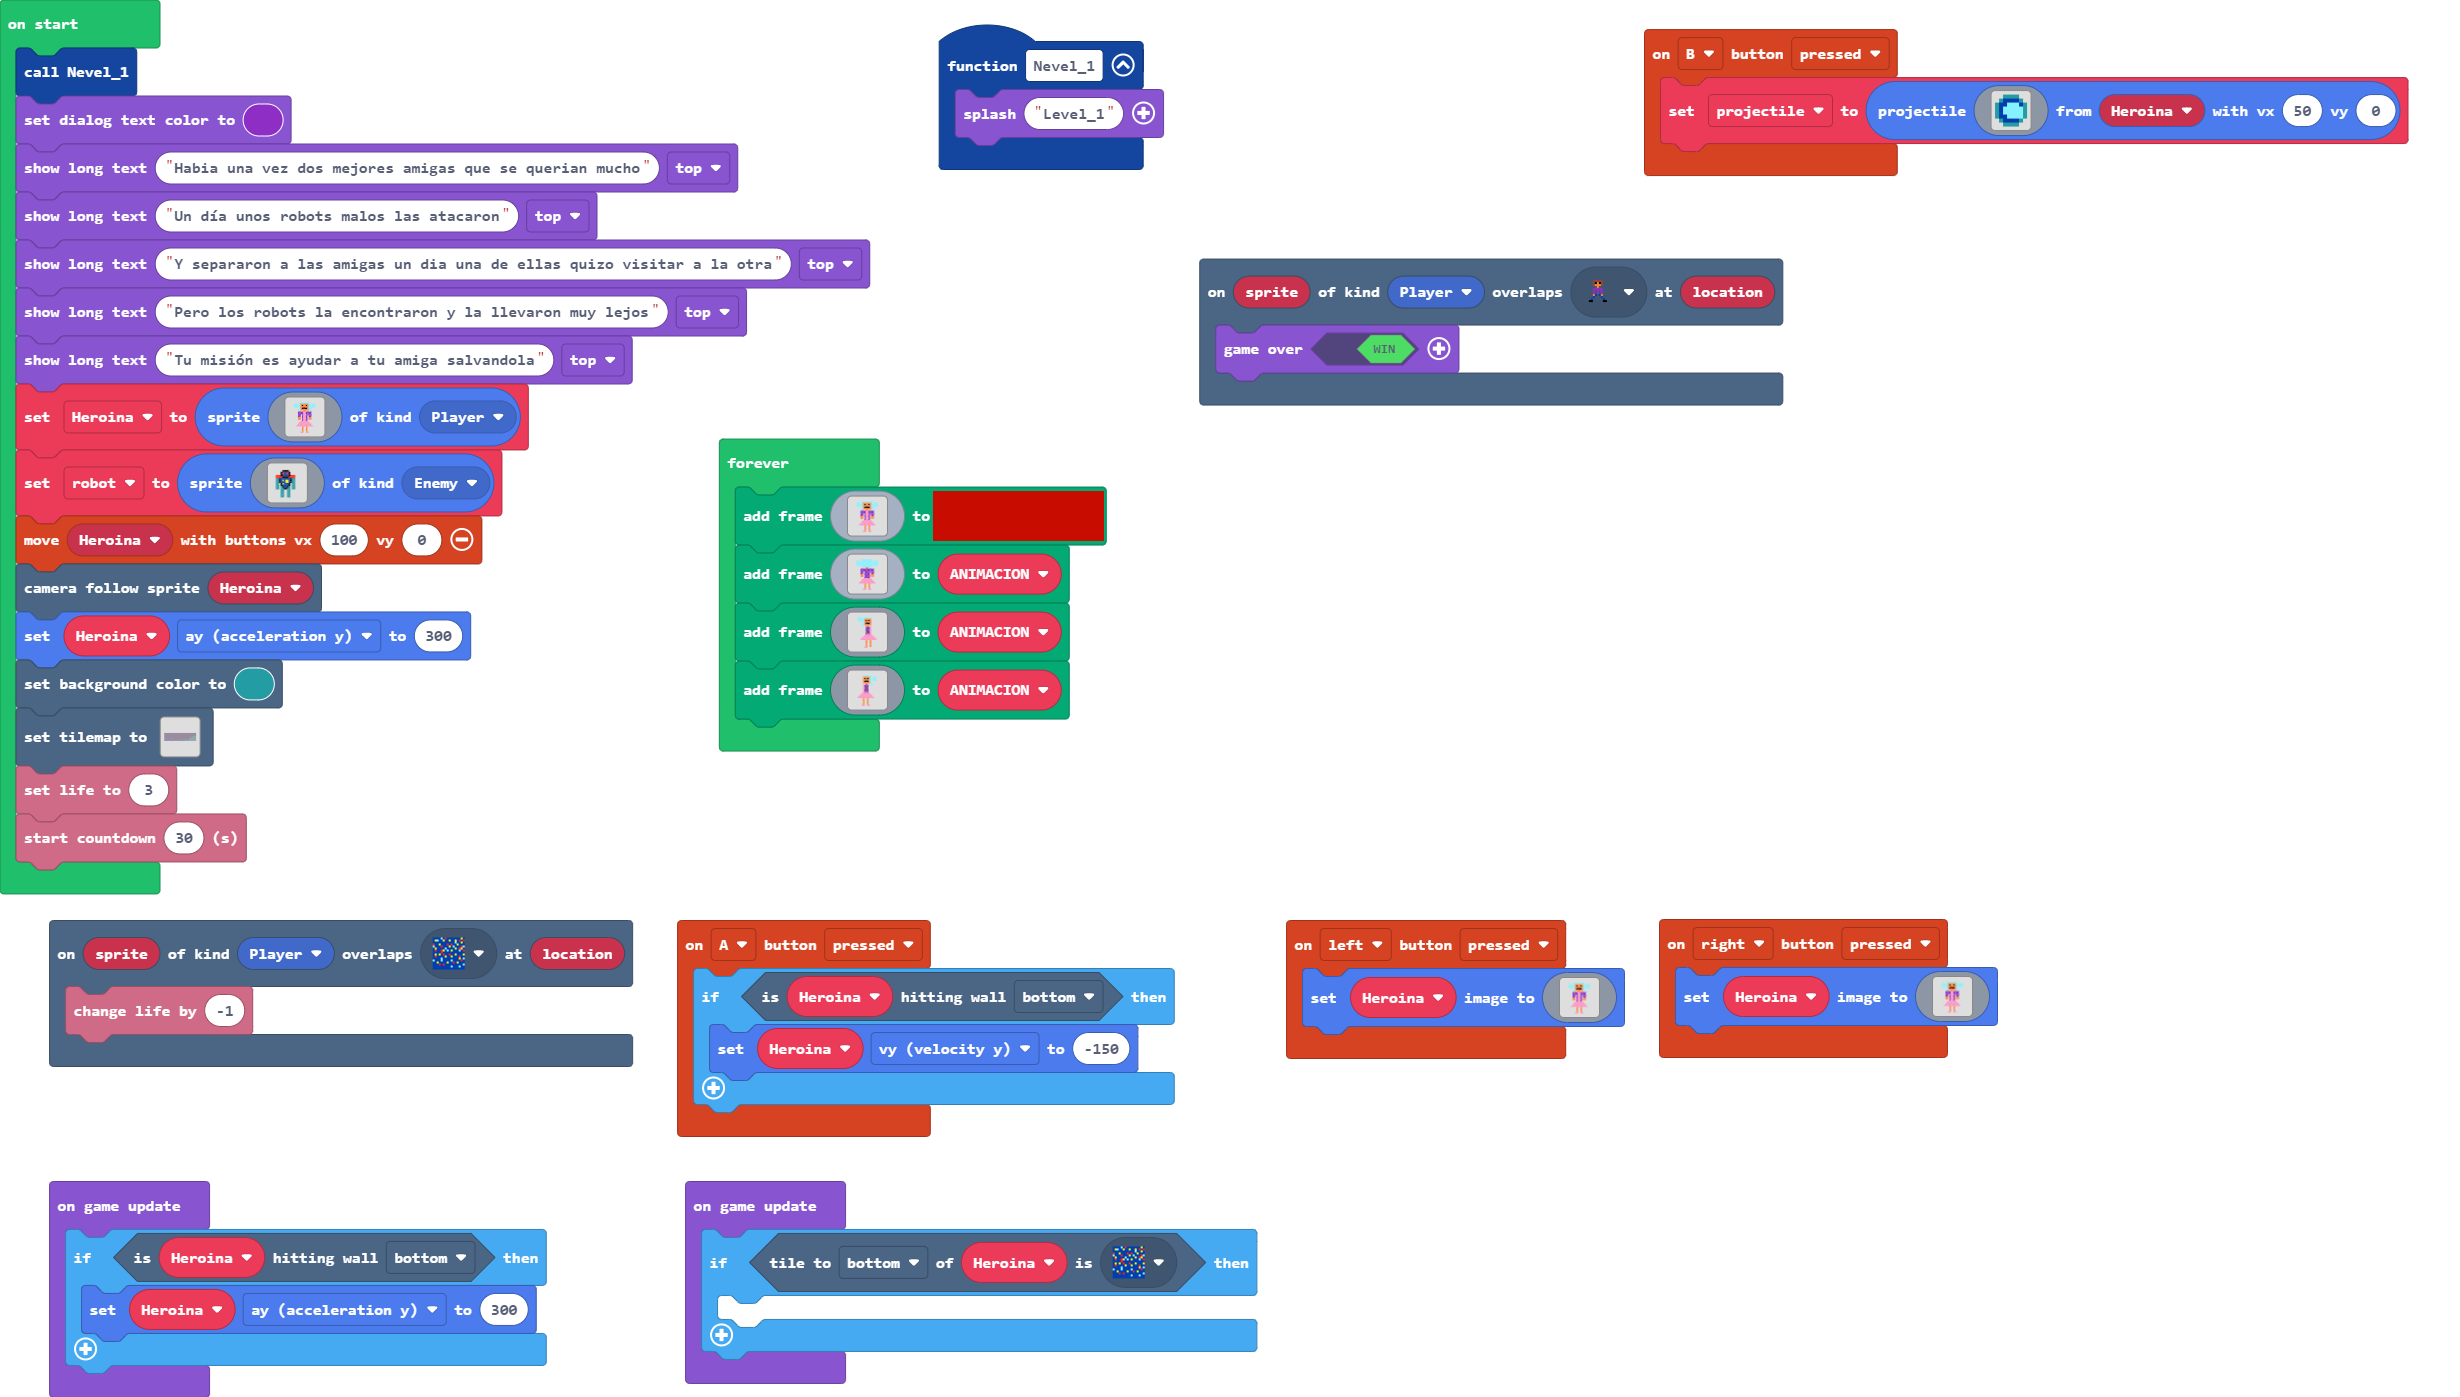
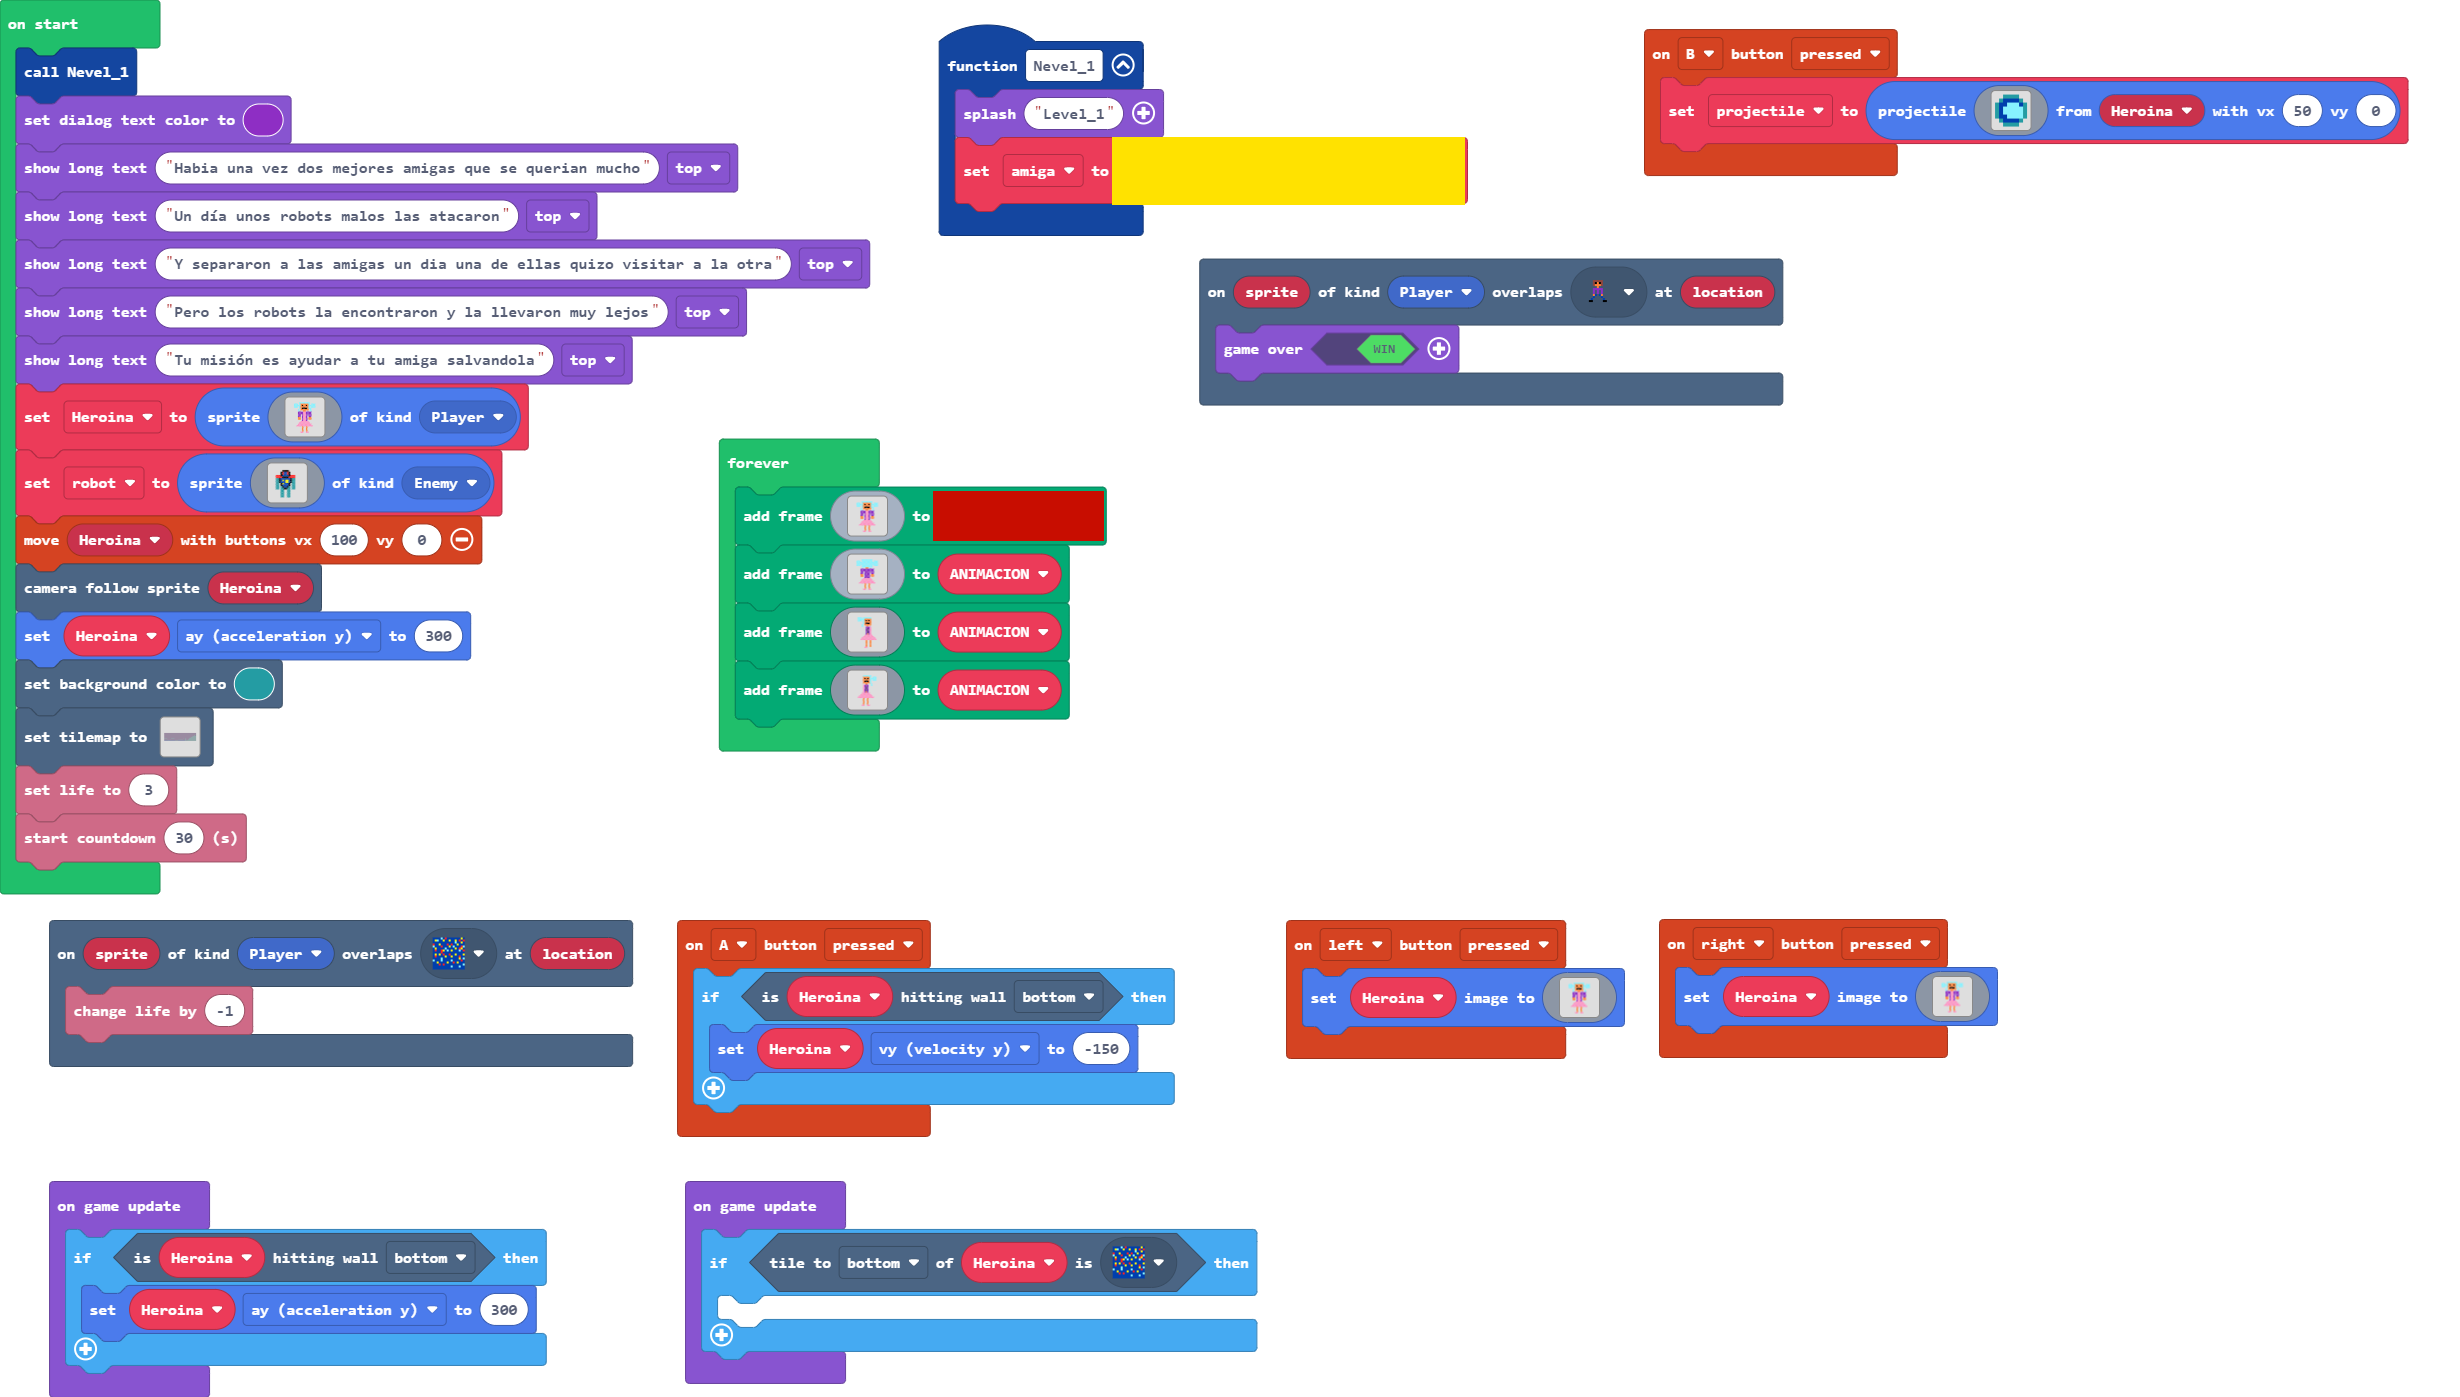
¡aumente un bloque

Changed region(s): [[0.3707, 0.0923, 0.6179, 0.1847]]

diff --git a/main.ts b/main.ts
@@ -1,11 +1,30 @@
 namespace SpriteKind {
     export const Mascota = SpriteKind.create()
+    export const Premio_1 = SpriteKind.create()
 }
 scene.onOverlapTile(SpriteKind.Player, myTiles.tile3, function (sprite, location) {
     game.over(true)
 })
 function Nevel_1 () {
     game.splash("Level_1")
+    amiga = sprites.create(img`
+        . . . . . . . . . . . . . . . . 
+        . . . . . e e e e e e . . . . . 
+        . . . . . e 4 4 4 4 e . . . . . 
+        . . . . . e f 4 4 f e . . . . . 
+        . . . . . e 4 4 4 4 e . . . . . 
+        . . . . . . . 4 4 . . . . . . . 
+        . . . . . 7 7 7 7 7 7 7 . . . . 
+        . . . . 7 7 . 7 7 7 . 7 . . . . 
+        . . . . 7 . . 7 7 7 . 7 . . . . 
+        . . . . . . . 7 7 7 . . . . . . 
+        . . . . . . . 9 . 9 . . . . . . 
+        . . . . . . 9 9 . 9 9 . . . . . 
+        . . . . . . 9 . . . 9 . . . . . 
+        . . . . . . 9 . . . 9 . . . . . 
+        . . . . . . . . . . . . . . . . 
+        . . . . . . . . . . . . . . . . 
+        `, SpriteKind.Premio_1)
 }
 controller.B.onEvent(ControllerButtonEvent.Pressed, function () {
     projectile = sprites.createProjectileFromSprite(img`
@@ -84,6 +103,7 @@ controller.right.onEvent(ControllerButtonEvent.Pressed, function () {
         `)
 })
 let projectile: Sprite = null
+let amiga: Sprite = null
 let Heroina: Sprite = null
 Nevel_1()
 game.setDialogTextColor(10)
